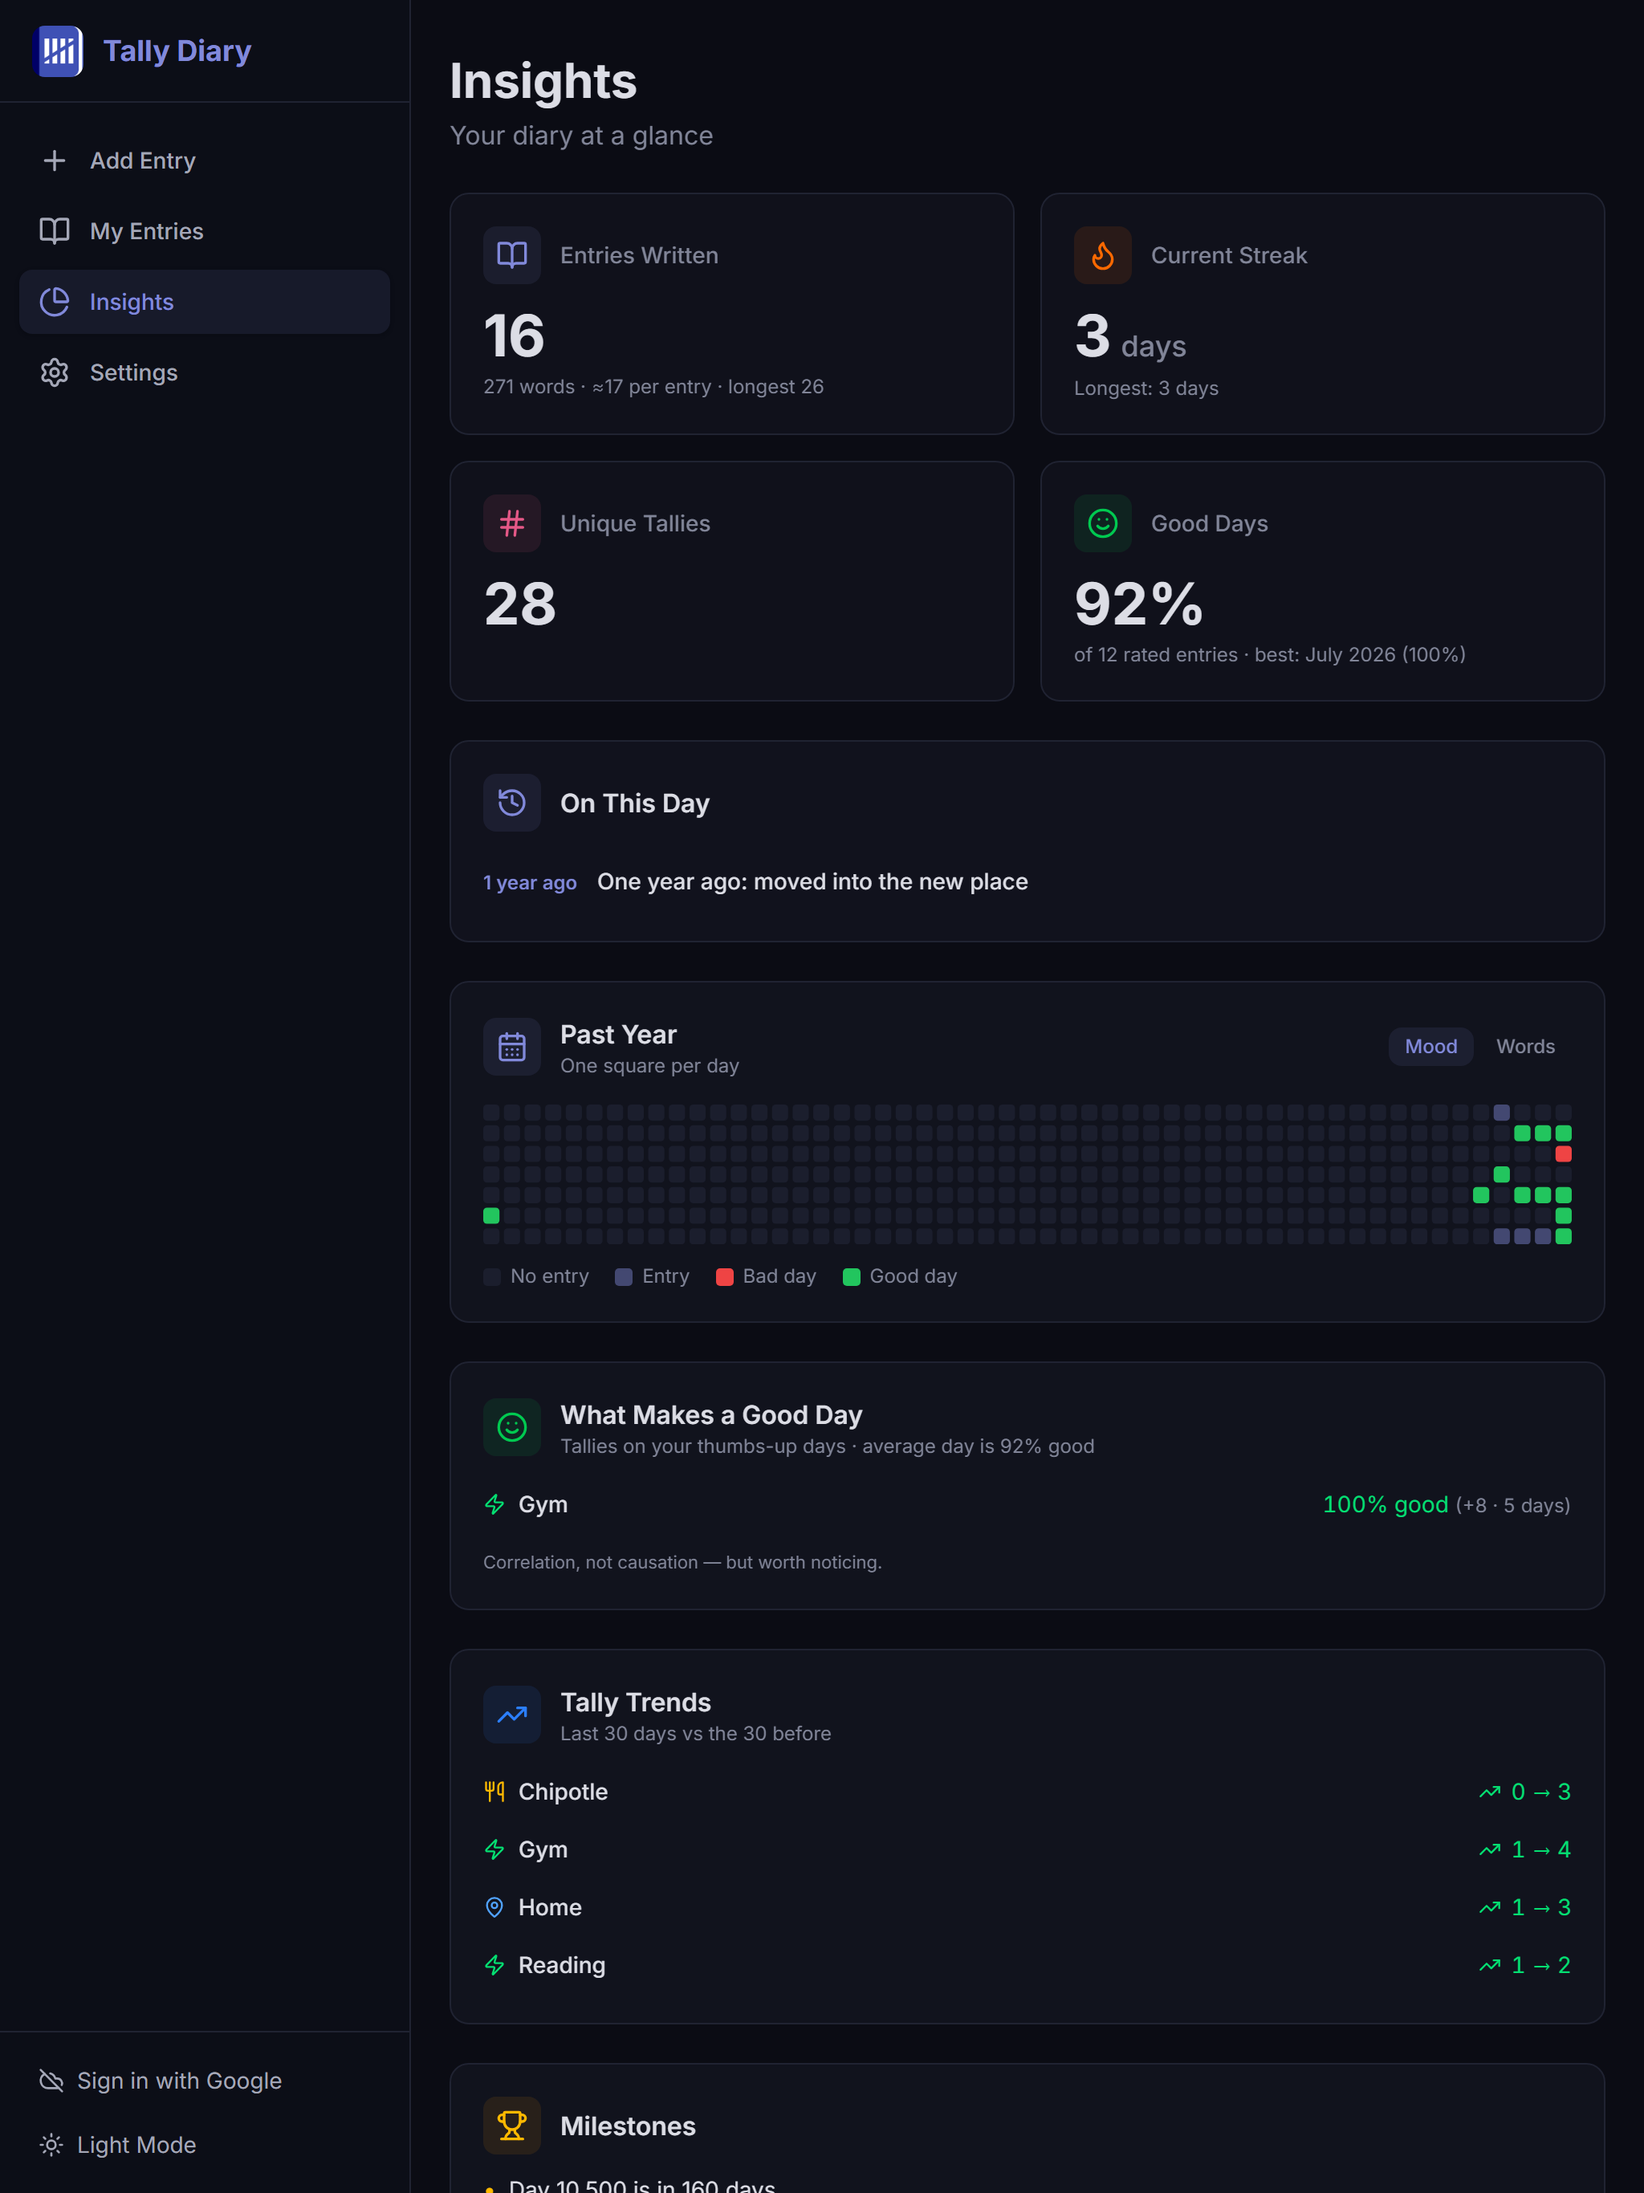
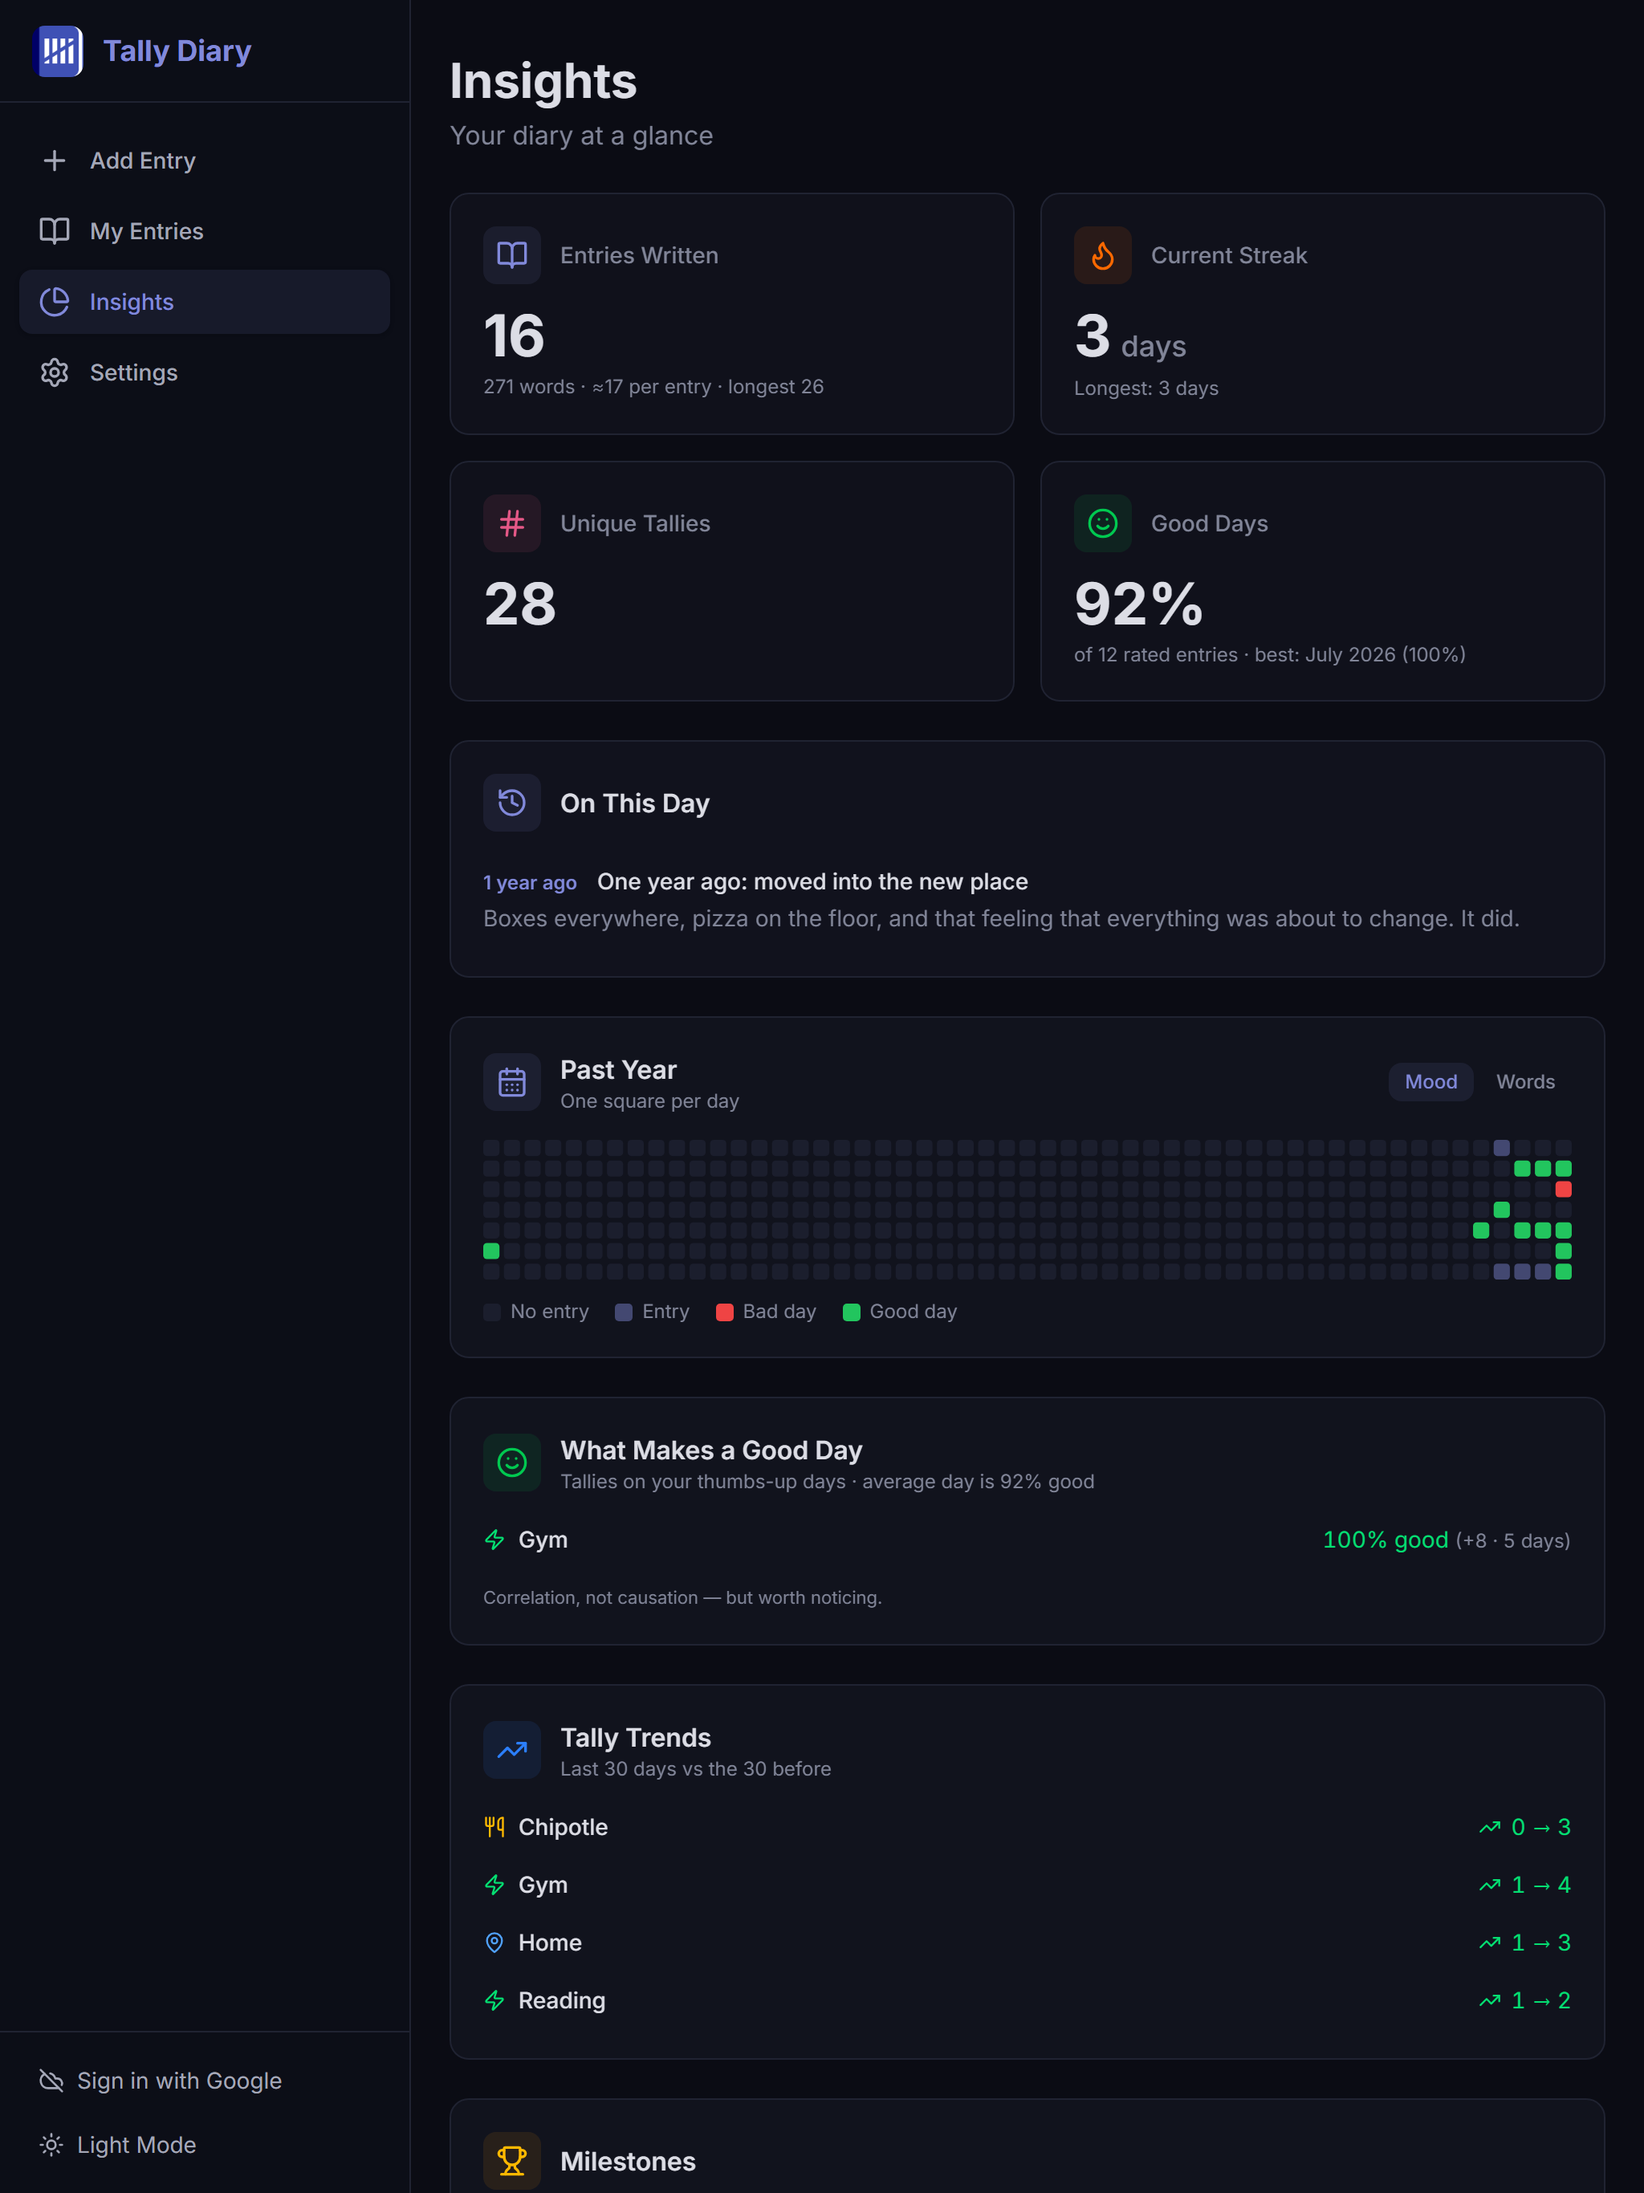
On This Day: preview the entry body under each anniversary title
Two-line clamped body text on each anniversary row, so past entries
can be skimmed without opening them. Screenshots regenerated.

diff --git a/tests/app.spec.ts b/tests/app.spec.ts
@@ -141,7 +141,7 @@ test('insights shows streaks, good days, correlations, milestones, and heatmap',
 	});
 	// Anniversary: same month/day, one year earlier
 	const [y, m, d] = local(0).split('-');
-	days.push(entry({ title: 'Last year today', date: `${Number(y) - 1}-${m}-${d}`, entryNumber: 0 }));
+	days.push(entry({ title: 'Last year today', date: `${Number(y) - 1}-${m}-${d}`, bodyText: 'A memorable day worth revisiting.', entryNumber: 0 }));
 	// Legacy-format date (old app stored non-ISO dates) — must be normalized on load
 	days.push(entry({ title: 'Legacy entry', date: `1/15/${Number(y) - 1}`, entryNumber: 0 }));
 	await seed(page, days);
@@ -170,8 +170,9 @@ test('insights shows streaks, good days, correlations, milestones, and heatmap',
 	await expect(page.getByText('More words')).toBeVisible();
 	await page.reload();
 	await expect(page.getByText('More words')).toBeVisible();
-	// On This Day anniversary links to the entry
+	// On This Day anniversary shows a body preview and links to the entry
 	await expect(page.getByText('1 year ago')).toBeVisible();
+	await expect(page.getByText('A memorable day worth revisiting.')).toBeVisible();
 	await page.getByText('Last year today').click();
 	await expect(page.getByPlaceholder('Title...')).toHaveValue('Last year today');
 });

diff --git a/src/lib/insights.ts b/src/lib/insights.ts
@@ -156,6 +156,7 @@ export function tallyTrends(entries: DiaryEntry[]): { movers: Mover[]; lapsed: L
 export interface Anniversary {
 	index: number;
 	title: string;
+	preview: string;
 	yearsAgo: number;
 	date: string;
 }
@@ -167,7 +168,13 @@ export function onThisDay(entries: DiaryEntry[]): Anniversary[] {
 	entries.forEach((e, index) => {
 		const [y, m, d] = (e.date || '').split('-');
 		if (m === tm && d === td && y < ty) {
-			out.push({ index, title: e.title || e.date, yearsAgo: Number(ty) - Number(y), date: e.date });
+			out.push({
+				index,
+				title: e.title || e.date,
+				preview: e.bodyText?.trim() ?? '',
+				yearsAgo: Number(ty) - Number(y),
+				date: e.date
+			});
 		}
 	});
 	return out.sort((a, b) => a.yearsAgo - b.yearsAgo);

diff --git a/src/routes/insights/+page.svelte b/src/routes/insights/+page.svelte
@@ -166,6 +166,9 @@
 					>
 						<span class="text-xs font-semibold text-primary">{a.yearsAgo} {a.yearsAgo === 1 ? 'year' : 'years'} ago</span>
 						<span class="ml-2 text-sm font-medium text-foreground group-hover:text-primary transition-colors">{a.title}</span>
+						{#if a.preview}
+							<p class="mt-0.5 text-sm text-muted-foreground line-clamp-2">{a.preview}</p>
+						{/if}
 					</button>
 				{/each}
 			</div>
